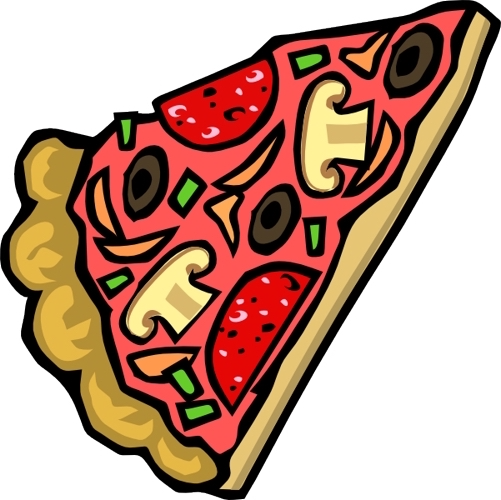
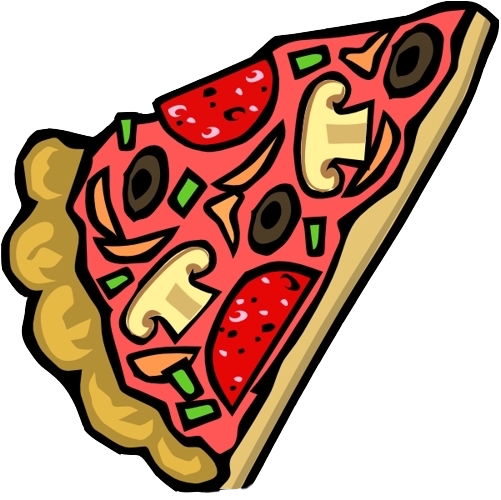
all specials are styled in the front end. just routes need fixing and the counter only appears on the header on the first page - however it is functioning

diff --git a/src/style/partials/emptyResult.scss b/src/style/partials/emptyResult.scss
@@ -1,0 +1,92 @@
+@mixin keyframes($animation-name) {
+  @-webkit-keyframes #{$animation-name} {
+    @content;
+  }
+  @-moz-keyframes #{$animation-name} {
+    @content;
+  }
+  @-ms-keyframes #{$animation-name} {
+    @content;
+  }
+  @-o-keyframes #{$animation-name} {
+    @content;
+  }
+  @keyframes #{$animation-name} {
+    @content;
+  }
+}
+
+@mixin animation($str) {
+  -webkit-animation: #{$str};
+  -moz-animation: #{$str};
+  -ms-animation: #{$str};
+  -o-animation: #{$str};
+  animation: #{$str};
+}
+@-webkit-keyframes fadeOut {
+  0% {
+    opacity: 1;
+  }
+  99% {
+    opacity: 0.01;
+    width: 100%;
+    height: 100%;
+  }
+  100% {
+    opacity: 0;
+    width: 0;
+    height: 0;
+  }
+}
+
+.main-center {
+  display: flex;
+  flex-direction: column;
+  justify-content: center;
+  align-items: center;
+  margin-top: 2rem;
+  margin-bottom: 1rem;
+  margin-left: 3rem;
+  margin-right: 1rem;
+  font-size: 60px;
+  width: 90vw;
+  color: black;
+}
+
+.central-image--tip {
+  display: flex;
+  flex-direction: column;
+  justify-content: center;
+  align-items: flex-start;
+  width: 500px;
+  height: 200px;
+  margin-top: 4rem;
+  margin-bottom: 3rem;
+  position: relative;
+  animation: slide-up 4s 3s;
+  animation-fill-mode: forwards;
+
+  @include keyframes(slide-away) {
+    0% {
+      top: 0px;
+      left: 11px;
+      opacity: 1;
+    }
+    100% {
+      top: -50px;
+      left: 250px;
+      opacity: 0;
+    }
+  }
+}
+.answer {
+  display: flex;
+  justify-content: flex-start;
+  align-items: flex-start;
+  font-size: 70px;
+}
+.tip {
+  font-size: 70px;
+  margin: 0;
+  padding: 0;
+}

diff --git a/src/components/Upload.js b/src/components/Upload.js
@@ -79,8 +79,8 @@ class Upload extends Component {
               onChange={this.handleNameInputChange}
               className="userName-input"
               name="uploadtitle"
-              placeholder="Add your exhibition title here (we are case sensitive)"
-              alt="Add your exhibition title here (we are case sensitive)"
+              placeholder="What's the name of your pizza?"
+              alt="Add the name of your pizza here"
               value={this.state.uploadTitle}
             />
 
@@ -90,7 +90,7 @@ class Upload extends Component {
               className="userName-input"
               name="dates"
               placeholder="Only if you want"
-              alt="add exhibition dates here if there are any to note"
+              alt="add your cooking instructions here. There is no character limit"
               value={this.state.dates}
             />
 
@@ -99,8 +99,8 @@ class Upload extends Component {
               onChange={this.handleVideoIngredientsInputChange}
               className="userName-input"
               name="onlinespace"
-              placeholder="Example: MOCA CrytoVoxels"
-              alt="Add full Url here to your exhibition here (exhibitions can also be audio only)"
+              placeholder="Add your ingredients here"
+              alt="This text box has no character limit. Add your ingredients here separated by commas"
               value={this.state.onlineSpace}
             />
 

diff --git a/src/app.js b/src/app.js
@@ -6,16 +6,28 @@ import { Link } from "react-router-dom";
 
 
 class App extends Component {
+  constructor(props) {
+    super(props);
+    this.state = {
+      count: 1
+    };
+    }
+
+    handleClick = e => {
+      const count = this.state.count;
+      this.setState({ count: count + 1 });
+    };
+
   render() {
     return (
       <div className="appCss">
-        <Header />
+        <Header counter={this.state.count}/>
         <div className="main-page_left">
         <p>What is TOVI eating for lunch?</p>
         
         <div>
           <Link to="/newResult">
-          <button className="button">Tell Us!</button>
+          <button className="button" onClick={this.handleClick}>Tell Us!</button>
           </Link>
           </div>
         </div>

diff --git a/src/style/partials/header.scss b/src/style/partials/header.scss
@@ -50,7 +50,7 @@ $color-dark-green: #16251c;
 .logo{
     display: flex;
     justify-content: center;
-    width:90%;
+    width: 30vw;
     padding-right: 0;
     margin-right:0;
 
@@ -70,7 +70,7 @@ $color-dark-green: #16251c;
     align-self: center;
     margin-top: 0.65rem;
     margin-bottom: 0.65rem;
-    max-width: 90%;
+    max-width: 40vw;
     @include tablet{
         width: 100%;
         margin-top: 1rem;
@@ -80,15 +80,18 @@ $color-dark-green: #16251c;
     }
 }
 .slice{
-    width: 10%;
+    width: 12vw;
     background-color: $color-dark-green;
 
     @include tablet{
-        width: 20%;
+        width: 30%;
     }
     @include tabletExt{
         width: 30%;
     }
 }
-
+.counter{
+    color: black;
+    font-size: 16px;
+}
 

diff --git a/src/components/Header.js b/src/components/Header.js
@@ -1,9 +1,9 @@
 import React from "react";
 import calzone from "../images/calzone.png";
-import slice from "../images/slice2.png";
+import slice from "../images/slice.png";
 import { Link } from "react-router-dom";
 
-function Header() {
+function Header(props) {
   return (
     <header className="header">
       <nav className="header__links--left">
@@ -17,8 +17,9 @@ function Header() {
             className="slice"
             src={slice}
             alt="press this button to go to the page where you can upload your online exhibition information"
-          />
+          />  
       </div>
+    <h2 className="counter">{props.counter}</h2>
     </header>
   );
 }

diff --git a/src/components/Counter.js b/src/components/Counter.js
@@ -1,0 +1,28 @@
+import React, { Component } from "react";
+
+class Counter extends Component {
+    constructor(props) {
+      super(props);
+      this.state = {
+        count: 1
+      };
+      }
+  
+      handleClick = e => {
+        const count = this.state.count;
+        this.setState({ count: count + 1 });
+      };
+    
+
+    render() {
+      return (
+     <div>
+         <div>{this.state.count}</div>
+      {/* <button className="block" onClick={this.handleClick}>
+          <div className="counter">{this.state.count}</div>
+        </button> */}
+    </div>
+      );
+    }
+  }
+  export default Counter;

diff --git a/src/pages/EmptyResult.js b/src/pages/EmptyResult.js
@@ -1,0 +1,23 @@
+import React, { Component } from "react";
+import Header from "../components/Header";
+import Footer from "../components/Footer";
+
+class EmptyR extends Component {
+  render() {
+    return (
+      <div className="appCss">
+        <Header />
+        <div className="main-center">
+          <div className="fade-background">
+            <div className="central-image--tip">
+              <p className="tip">Tip:</p>
+              <h2 className="answer">IT'S ALWAYS PIZZA.</h2>
+            </div>
+          </div>
+        </div>
+        <Footer />
+      </div>
+    );
+  }
+}
+export default EmptyR;

diff --git a/src/index.js b/src/index.js
@@ -9,6 +9,7 @@ import {
 import App from "./app";
 import Upload from "./components/Upload";
 import NewResult from "./pages/NewResult";
+import EmptyResult from "./pages/EmptyResult";
 import "./style/all.scss";
 
 ReactDOM.render(
@@ -17,6 +18,7 @@ ReactDOM.render(
             <Route path="/" component={NewResult} />
             <Route path="/upload" component={Upload} />
             <Route path="/newResult" component={App} />
+            <Route path="/emptyResult" component={EmptyResult} />
             <Route path="/*">
                 <Redirect to="/" />
             </Route>

diff --git a/src/style/partials/newResult.scss b/src/style/partials/newResult.scss
@@ -50,7 +50,7 @@
   border-radius: 200%;
   padding:2rem;
   background-color: lightseagreen;
-background: linear-gradient(-45deg, #21a080,#36947e, white, white );
+  background: linear-gradient(-45deg, #21a080,#36947e, white, white );
 	background-size: 400% 400%;
 	animation: gradient 5s ease;
 }
@@ -66,7 +66,7 @@ background: linear-gradient(-45deg, #21a080,#36947e, white, white );
 		background-position: 0% 50%;
 	}
 }
-.central-image--slice {
+.central-slice {
   display: flex;
   flex-direction: column;
   justify-content: center;

diff --git a/src/pages/NewResult.js b/src/pages/NewResult.js
@@ -12,7 +12,7 @@ class NewResult extends Component {
           <div className="round-background">
             <div>
             <img
-              className="central-image--slice"
+              className="central-slice"
               src={slice}
               alt="press this image of a pizza slice to move to see hint"
             />

diff --git a/src/style/all.scss b/src/style/all.scss
@@ -3,3 +3,8 @@
 @import "./partials/app.scss";
 @import "./partials/footer.scss";
 @import "./partials/newResult.scss";
+@import "./partials/emptyResult.scss";
+
+.appCss{
+    font-family:'Lucida Sans', 'Lucida Sans Regular', 'Lucida Grande', 'Lucida Sans Unicode', Geneva, Verdana, sans-serif;
+}

diff --git a/src/style/partials/footer.scss b/src/style/partials/footer.scss
@@ -40,7 +40,7 @@
     display: flex;
     justify-content: center;
     align-content: center;
-    width:50vw;
+    width:49vw;
     margin: 0;
     border: 2px solid;
     border-color: black;
